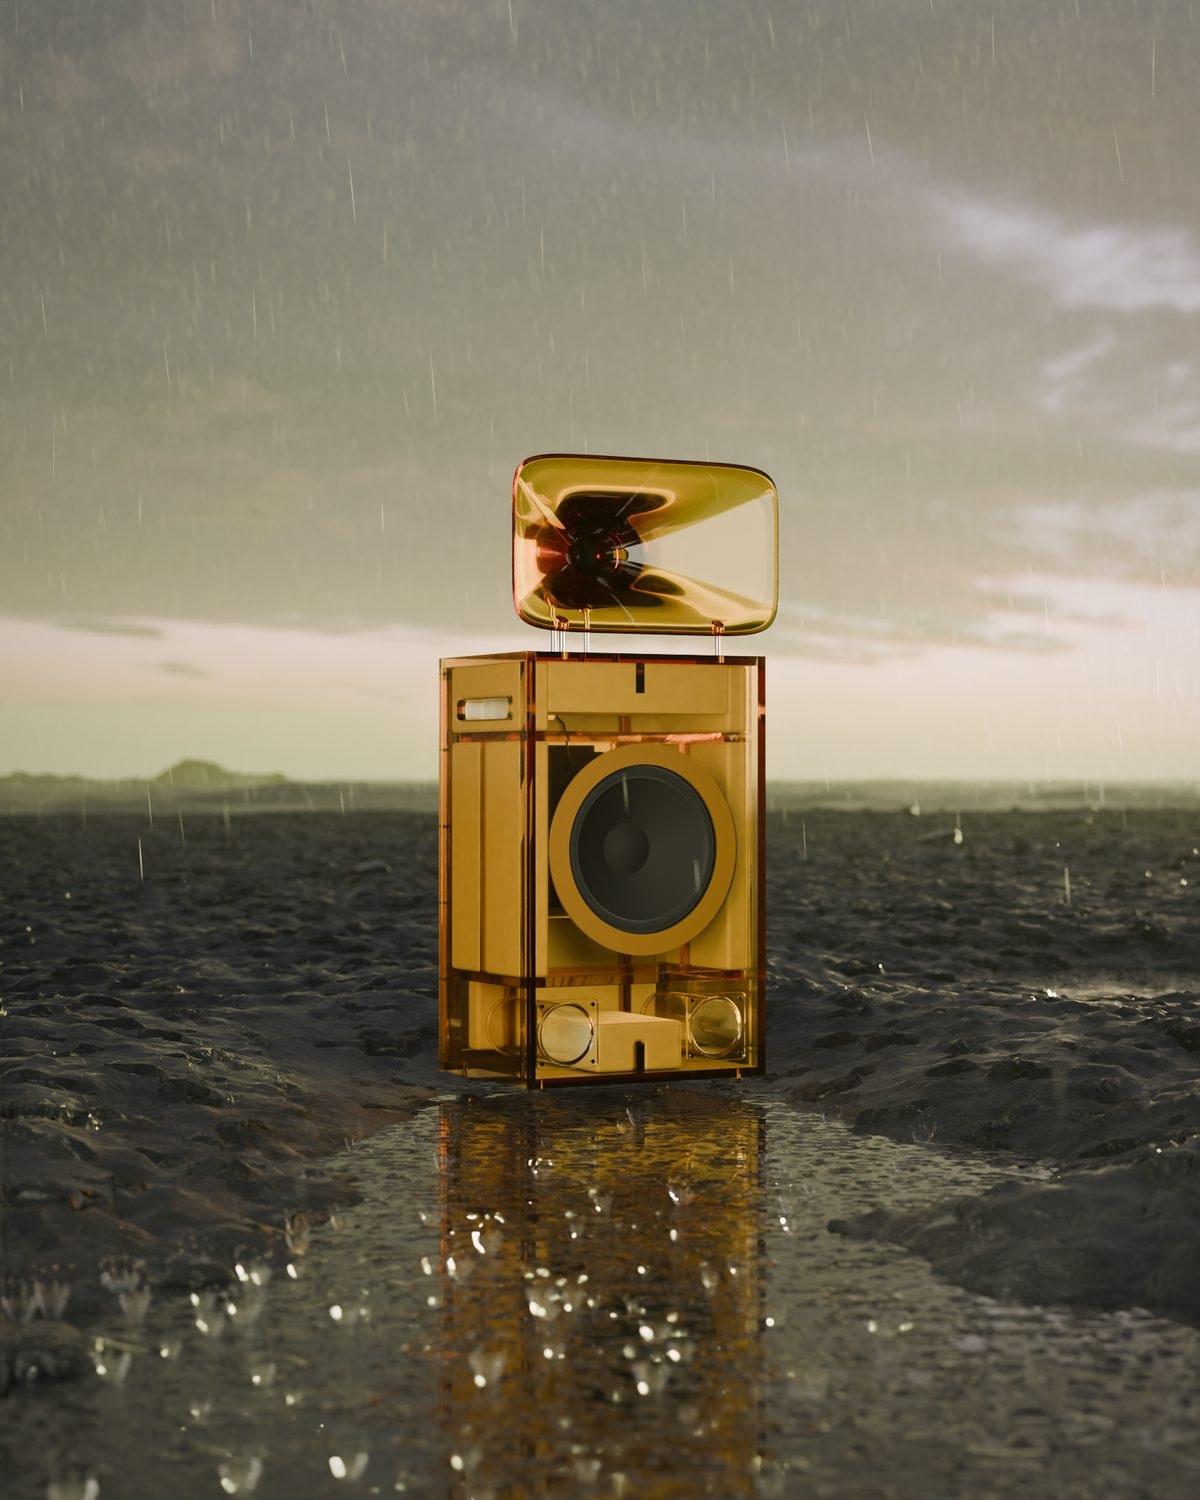
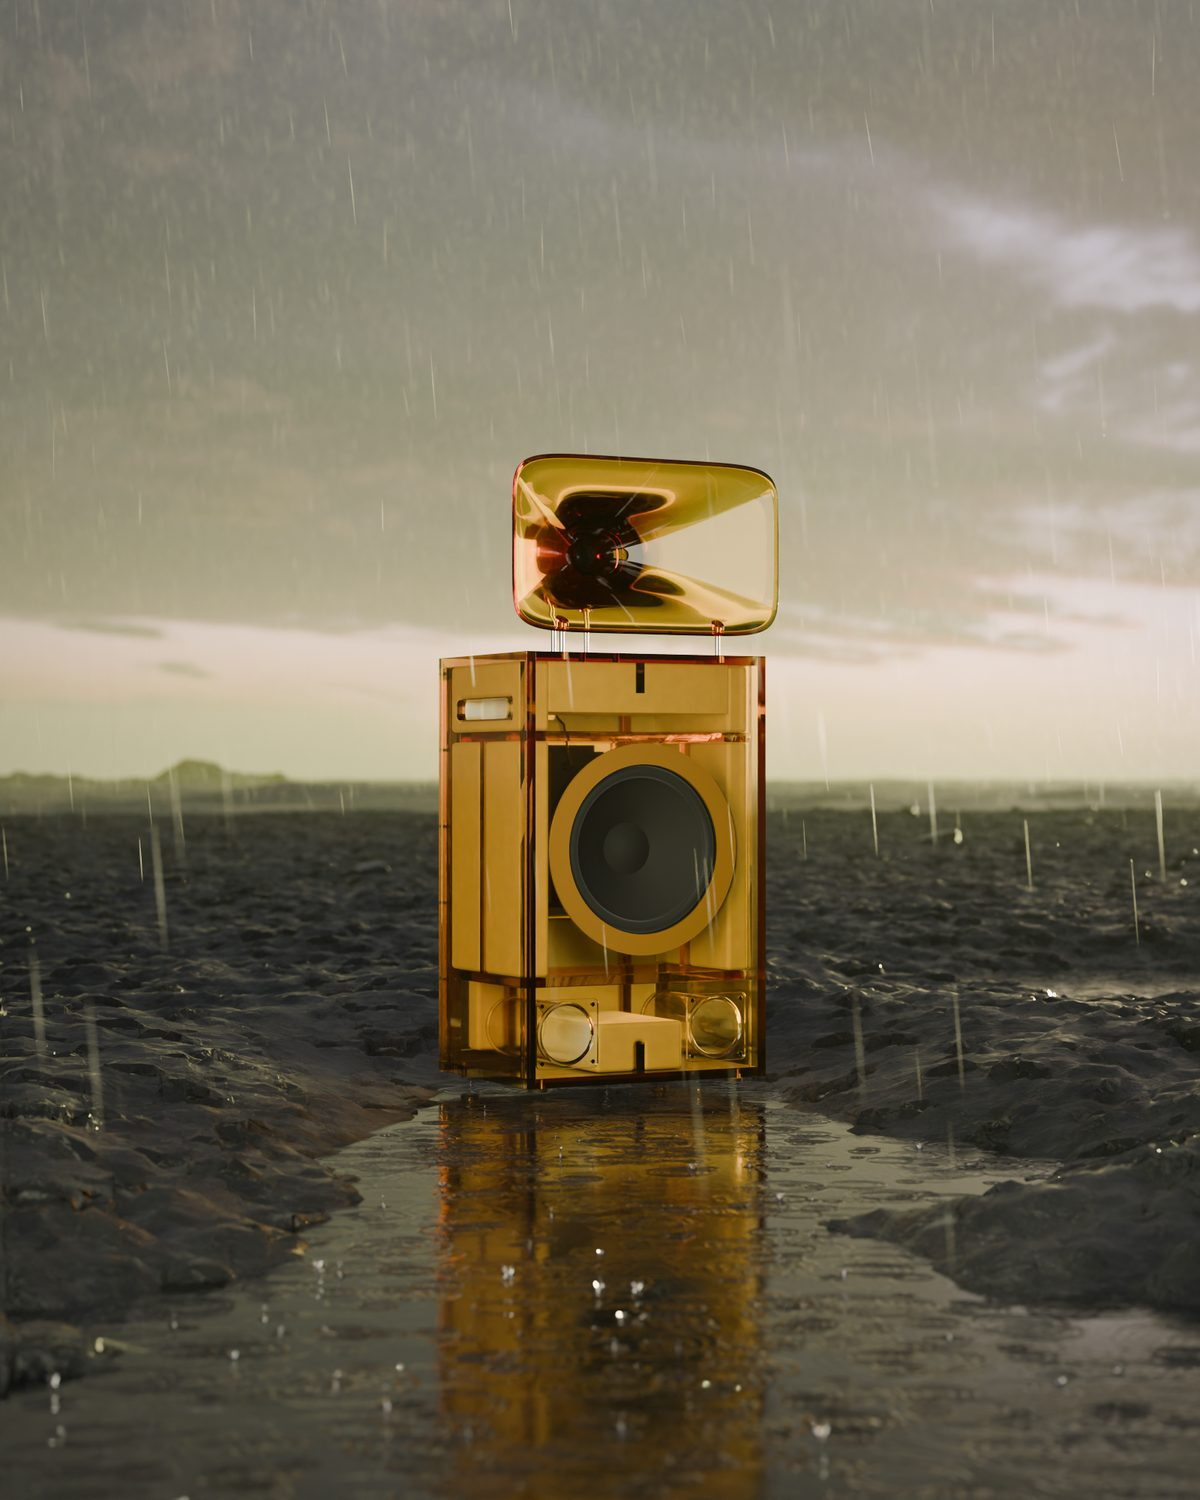
barkhorn site: Acid with the fixed water (rings, not glassy splashes), landscape and phone frame; LOG row (6.8 to 6.0 over the previous frame)
Claude-Session: https://claude.ai/code/session_016Hs9fK3h2VwVeRXpa18b1z

diff --git a/spinoffs/barkhorn/site/index.html b/spinoffs/barkhorn/site/index.html
@@ -579,7 +579,7 @@ html.cursor, html.cursor * { cursor: none !important }
 </div></footer>
 
 <script>
[2 lines of base64/hex data omitted]
 const SLUG = Object.fromEntries(D.clouds.map(c => [c.name.toLowerCase(), c.k])), keyOf = w => SLUG[w] || (BY[w] ? w : null);
 const reduce = matchMedia('(prefers-reduced-motion: reduce)').matches, TAU = Math.PI * 2;
 // lit from below: scrolling picks the colour (a quarter of a screen each) and time plays the change; the coins are a

diff --git a/critic/LOG.md b/critic/LOG.md
@@ -664,6 +664,7 @@ its finals from the best rig, and put them to a blind duel against the runner-up
 | Smoke | A: woodsmoke at dawn in a pine wood | 5.0, 5.5, 5.5, 5.0, 5.5, 5.5, 5.0 | 6.5 | p6 over p7, 5.6 to 4.8; over B, 3 to 0 (6.5 to 4.0); re-finished from the raw (neutral, the speaker lifted), 6.4 to 6.0 | the trunks smooth cylinders (the scanned pine is too big for the box); one sepia cast; a weak left rim; in the duel, the cabinet dark and the amber grade over its tint |
 | Smoke | B: a misty birch wood, high-key | 5.0, 5.0, 5.5, 5.5, 5.0 | 5.5 | p11 over p13, 5.5 to 5.0 | grey, not high-key; no contact shadow; snow like satin; in the duel, the mottled throat and the cabinet sunk in the snow |
 | Acid | B: acid rain over wet black lava | 5.0, 5.0, 5.5, 5.0, 5.5, 6.0, 5.5, 6.0 | 6.5 | p9 over p6, 6.0 to 5.0; over A, 2 to 1 (6.3 to 5.4); re-graded off olive, 6.2 to 5.9 | the rain as CG pins; the cabinet a dark block in the backlight; in the duel, the olive grade and the straight-on view |
+| Acid | B, the water fixed (the owner: "the splashes are a little off"): rain lands as rings, small crowns only where water pools, the near drops thinned | water passes 5.5 against 3.5, 6.5 against 5.5 | (the interim, old drivers) | over the previous frame, 6.8 to 6.0 | rendered again on the drivers made real |
 | Studio | each colour on a seamless (Ember's hero), the eight as a lineup, five macros | dark: 5.5, 5.0, 5.5, 5.5, 5.0, 5.0, 5.0; bright field: 5.5 five times, then 6.5 with the colour thrown onto the floor (26 passes in all) | the eight heroes 6.5 as a set; lineup 6.5; macros 5.0 to 5.5 | bright over dark, 5.6 to 4.8; the light Ember over the dark, 6.5 to 5.5; the woofer, grip and corner reframes lost to the first frames | the internals through the clear sides; the horn's black driver; smooth uniform materials; the horn's mirror; the sweep's grey corners (blended on the site). One more round is rendering (contact shadow, a darker floor, flags on the clear frame's edges, Smoke's back light) |
 | Room | the Poison pair at home, with Cumulus | 4.5, then 6.0 to 6.5 over thirteen more | 6.5 (its phone frame 6.5) | the noon frame over a re-render with a softer sun, 6.8 to 6.5 | the cover's disc flat under raking sun (now melange); the batts lime in warm sun; the throat black; the pair about 37 % of the frame |
 | Hero | the eight together (two staggered ranks, lit from behind) | 5.5 (the template), 6.5, 5.5, 6.0, 6.0, 6.0, 6.0, 6.0, 6.0, 6.0 | 6.0 (v2, full size); its phone frame 6.0 | the template over p8, 6.5 to 5.5; v1 over the previous site hero, 5.5 to 5.0; v1 over p2, 6.5 to 6.0; v2 over v1, 6.6 to 6.0 | the batts' grey shadow slabs; black throats (lights on the drivers don't open them); tinted acrylic near-black edge-on (the long path through the tint); the smoked unit swallowed by its tint |
